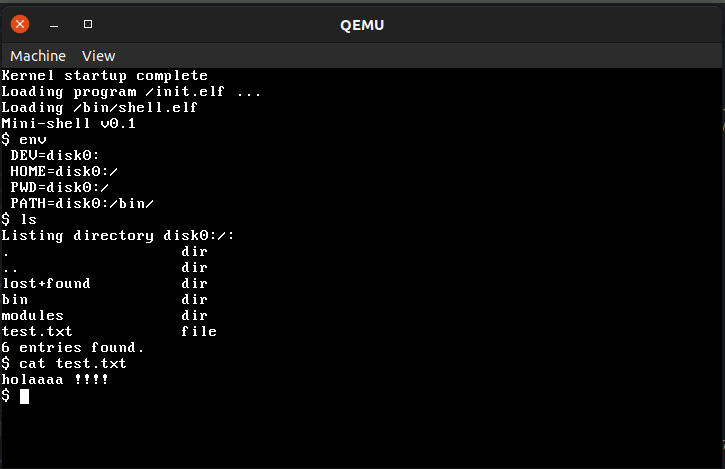
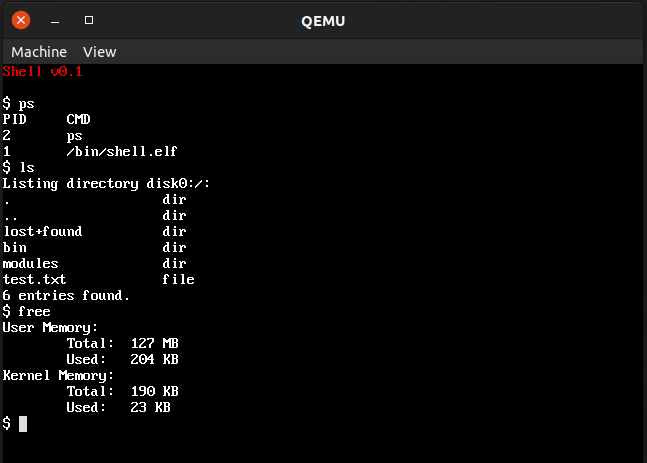
Updated readme

diff --git a/README.md b/README.md
@@ -72,3 +72,10 @@ Lists all available devices
 ### cat
 Dumps to console the contents of a given file, syntax:
 ```$ cat [path]```
+
+### free
+Displays user and kernel memory statistics.
+
+### ps
+Shows current processes
+
